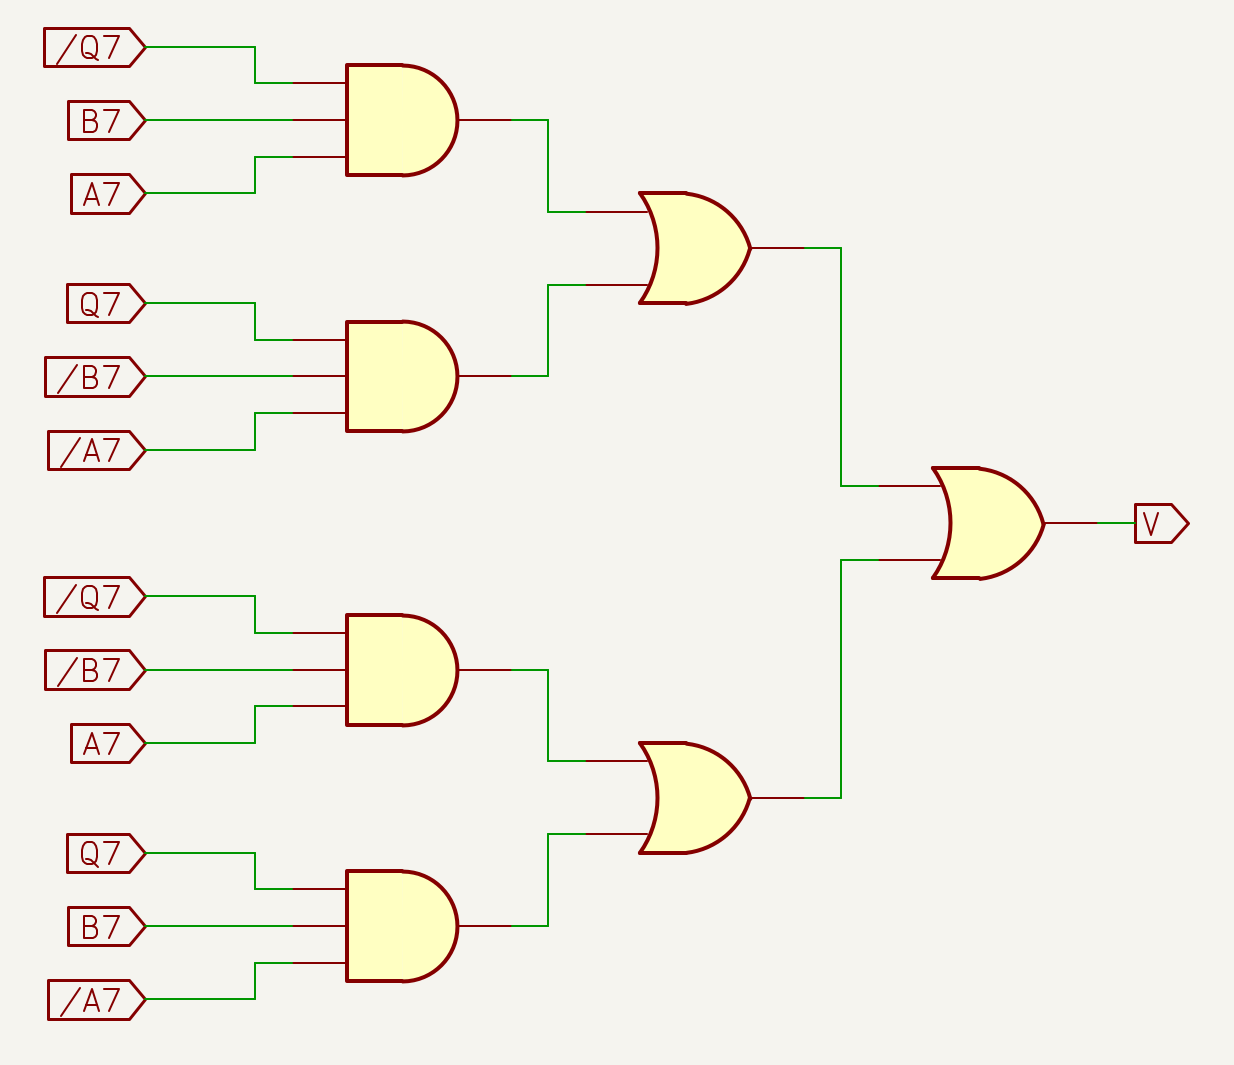
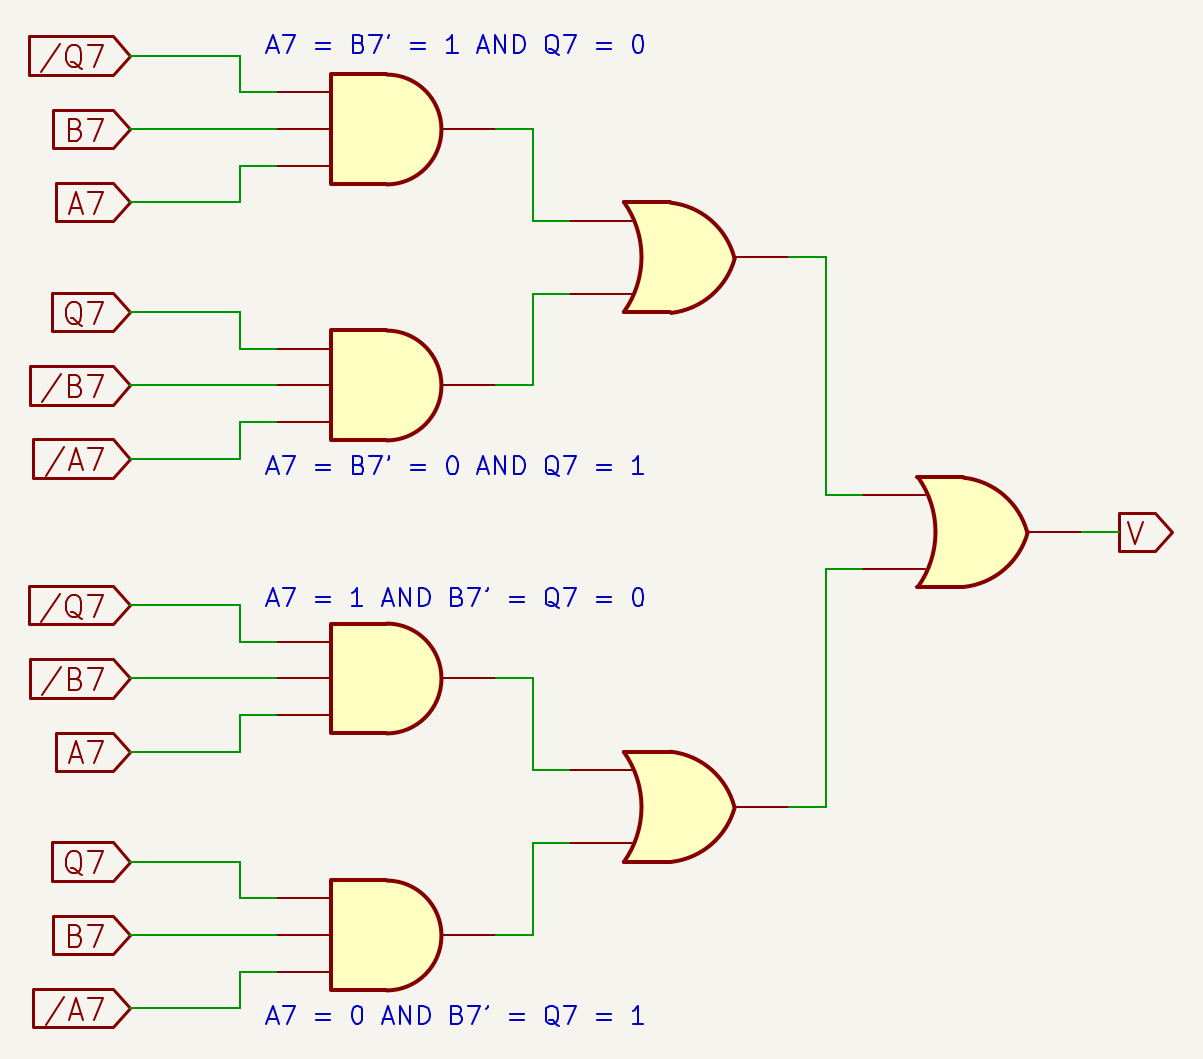
rew

diff --git a/docs/_docs/75-bin-math.md b/docs/_docs/75-bin-math.md
@@ -290,16 +290,16 @@ La tabella seguente sintetizza quanto accade nell'8° Adder:
 - C8 risulta a 1 se almeno due tra A7, B7' e C7 sono a 1;
 - V è il Flag di Overflow.
 
-Nella sezione [Approfondimento Overflow](#approfondimento-overflow) abbiamo visto che la somma di due Signed positivi non può avere come risultato un Signed negativo e che anche la situazione opposta vera. Nelle due righe evidenziate troviamo infatti:
+Nella sezione [Approfondimento Overflow](#approfondimento-overflow) abbiamo visto che la somma di due Signed positivi non può avere come risultato un Signed negativo e che anche la situazione opposta è vera. Nelle due righe evidenziate troviamo infatti:
 
-- \* due Signed negativi (A7 = B7' = 1) la cui somma genera un risultato positivo (Q7 = 0) --> abbiamo una situazione di Overflow.
-- \*\* due Signed positivi (A7 = B7' = 0) la cui somma genera un risultato negativo (Q7 = 1) --> abbiamo una situazione di Overflow.
+- \* due Signed negativi (A7 = B7' = 1) la cui somma genera un risultato positivo (Q7 = 0) --> corrisponde a una situazione di Overflow.
+- \*\* due Signed positivi (A7 = B7' = 0) la cui somma genera un risultato negativo (Q7 = 1) --> corrisponde a una situazione di Overflow.
 
 ### Metodi di identificazione dell'Overflow
 
-Mettendo a fattor comune quanto abbiamo visto fino ad ora, possiamo identificare 3 situazioni che determinano un Overflow in una somma:
+Mettendo a fattor comune quanto abbiamo visto fino ad ora, possiamo identificare 3 situazioni misurabili che determinano un Overflow in una somma:
 
-1. A7 e B7' sono dello stesso segno e Q è invertito rispetto ad A e B, cioè **(A7 == B7') AND (Q7 <> A7)** (notare che non stiamo specificando un valore assoluto 1 o 0 dei bit: stiamo considerando le relazioni tra i segnali);
+1. A7 e B7' sono dello stesso segno e Q è invertito, cioè **(A7 == B7') AND (Q7 <> A7)** (notare che non stiamo specificando un valore assoluto 1 o 0 dei bit: stiamo considerando le relazioni tra i segnali);
 2. C7 e C8 sono invertiti tra loro, cioè **C7 <> C8** (anche in questo caso si esegue una comparazione relativa);
 3. **(A7 = B7' = 1 AND Q7 = 0) OR (A7 = B7' = 0 AND Q7 = 1)** è simile al punto 1, ma, anziché porre i bit in una comparazione relativa, ne stiamo specificando il valore assoluto.
 
@@ -315,7 +315,7 @@ Anche nel secondo caso **C7 <> C8** manca una informazione, perché C7 è comput
 ---
 Nemmeno il terzo metodo **(A7 = B7' = 1 AND Q7 = 0) OR (A7 = B7' = 0 AND Q7 = 1)** sembra utilizzabile, perché B7' è confinato alla circuiteria interna dell'ALU:
 
-![Terzo metodo](../../assets/math/75-overflow-detector-and-or.png){:width="43%"}
+![Terzo metodo](../../assets/math/75-overflow-detector-and-or.png){:width="45%"}
 
 I tre metodi esaminati sembrano portare a una strada chiusa; tuttavia, è possibile ricostruire artificialmente il segnale B7' basandosi sugli altri segnali disponibili nel computer.
 
@@ -323,7 +323,9 @@ I tre metodi esaminati sembrano portare a una strada chiusa; tuttavia, è possib
 
 ![Overflow somma](../../assets/math/75-overflow-detector-a+b.png){:width="43%"}
 
-- Qualche considerazione permette di riutilizzare lo stesso metodo anche per la verifica dell'Overflow nelle *sottrazioni*; il valore B7' in ingresso all'ultimo Adder del '181 sarà infatti invertito rispetto al valore di B7 dato in input al chip (in una sottrazione A7 - B7, B7' viene invertito dalla circuiteria interna dell'ALU* e possiamo dunque usare l'inverso di B7 come input del circuito che determina l'eventuale stato di Overflow):
+Qualche considerazione permette di riutilizzare lo stesso metodo anche per la verifica dell'Overflow nelle *sottrazioni*.
+
+- Il valore B7' in ingresso all'ultimo Adder del '181 sarà infatti invertito rispetto al valore di B7 dato in input al chip (in una sottrazione A7 - B7, B7' viene invertito dalla circuiteria interna dell'ALU* e possiamo dunque usare l'inverso di B7 come input del circuito che determina l'eventuale stato di Overflow):
 
 ![Overflow sottrazione](../../assets/math/75-overflow-detector-a-b.png){:width="43%"}
 
@@ -331,7 +333,7 @@ I tre metodi esaminati sembrano portare a una strada chiusa; tuttavia, è possib
 
 In definitiva, il terzo metodo è utilizzabile per la verifica dell'Overflow sia per le addizioni, sia per le sottrazioni.
 
-Giunti a questo punto, per realizzare un circuito in grado di identificare l'Overflow basandoci sul terzo metodo, avremmo bisogno di 4 porte AND con 3 ingressi e 3 porte OR con 2 ingressi: la terza OR servirebbe ad eseguire l'OR logico tra i due circuiti precedenti per creare un'unica segnalazione di Overflow tanto in caso di addizione quanto in caso di sottrazione.
+Giunti a questo punto, per realizzare un circuito in grado di identificare l'Overflow basandoci sul terzo metodo servirebbero 4 porte AND con 3 ingressi e 3 porte OR con 2 ingressi: la terza OR servirebbe ad eseguire l'OR logico tra i due circuiti precedenti per creare un'unica segnalazione di Overflow tanto in caso di addizione quanto in caso di sottrazione.
 
 ![Overflow somma e sottrazione](../../assets/math/75-overflow-detector-a+b-a-b.png){:width="57%"}
 
